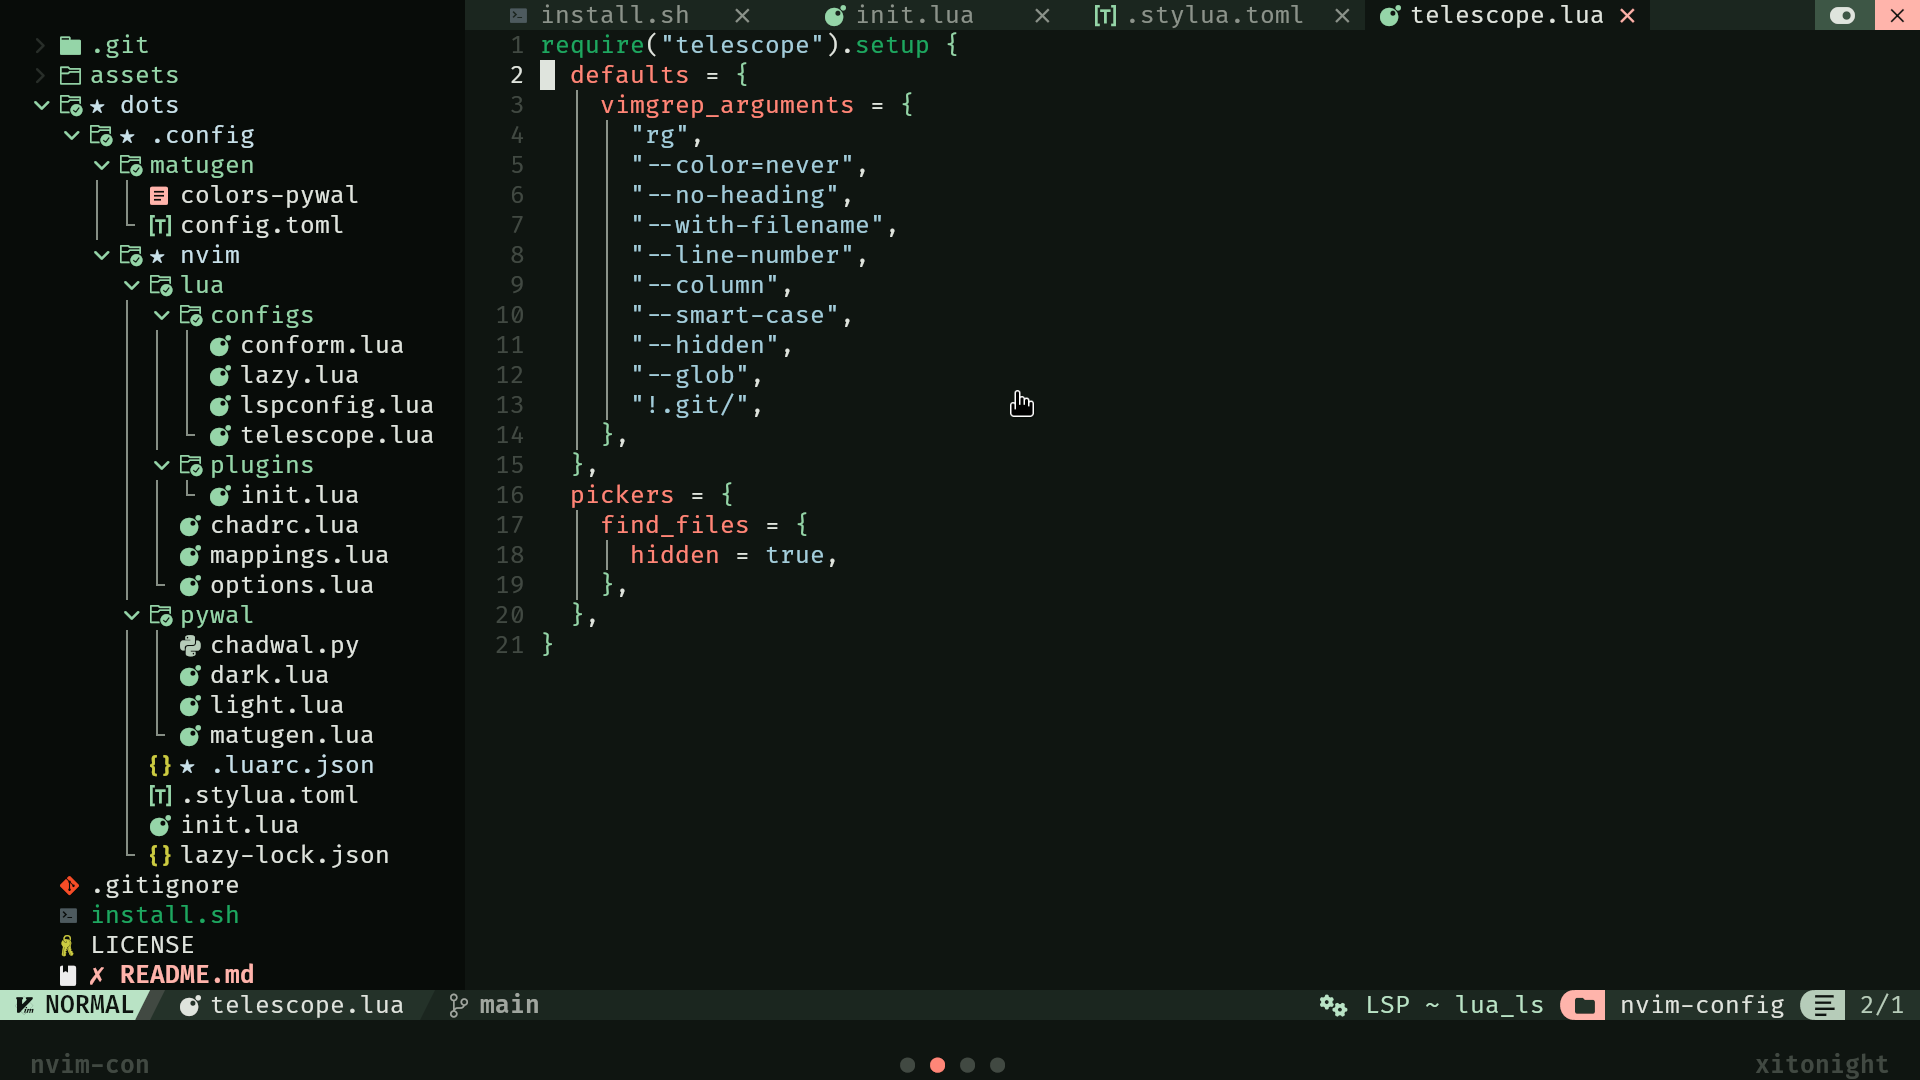
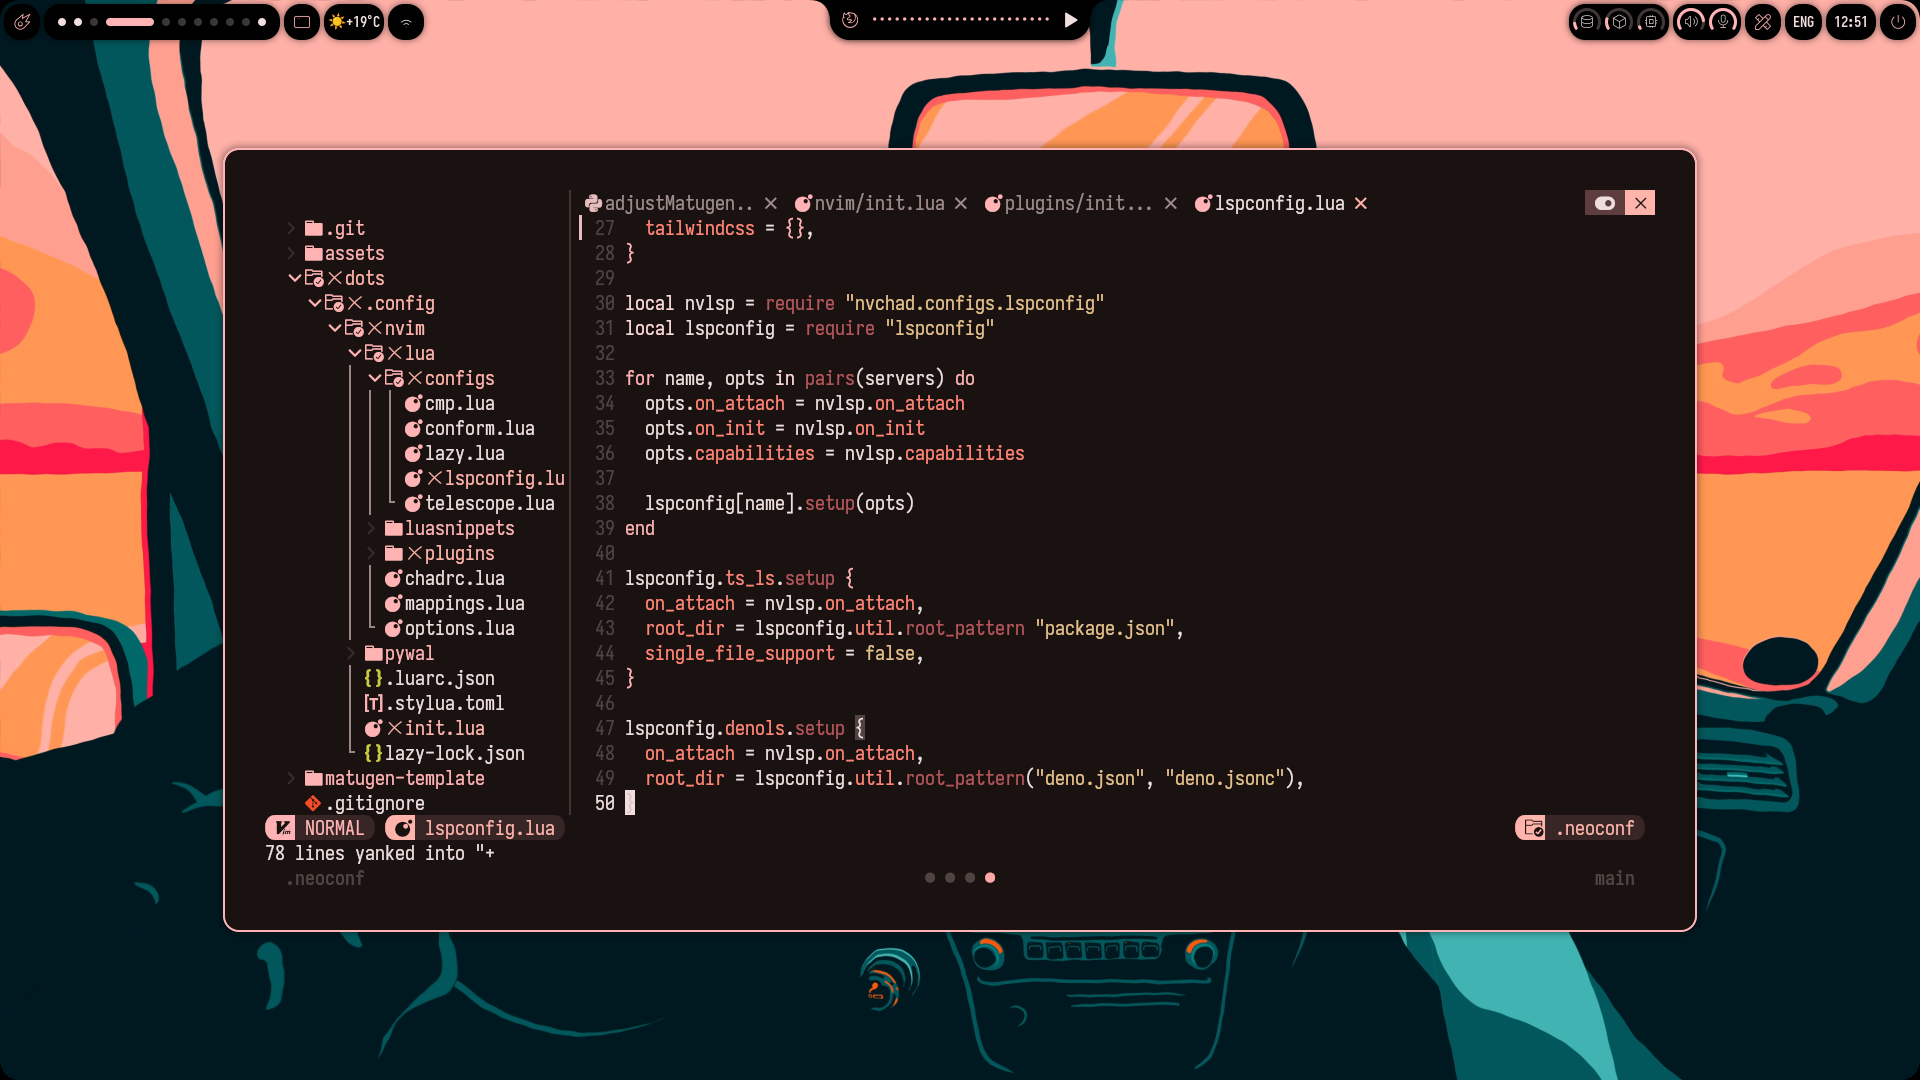
Various changes - Fix install script - Order formatters and LSPs alphabetically - Change showcase screenshots - Fix README.md

diff --git a/adjustMatugenToml.py b/adjustMatugenToml.py
@@ -1,36 +1,47 @@
 import toml
 from os.path import expanduser
 
+
 def ensure_toml_config(file_path):
     required_config = {
-        "config": {"reload_apps": True,
+        "config": {
+            "reload_apps": True,
             "wallpaper": {
                 "command": "swww",
                 "arguments": [
-                    "img", "-t", "outer", "--transition-duration", "1.5",
-                    "--transition-step", "255", "--transition-fps", "60", "-f", "Nearest"
+                    "img",
+                    "-t",
+                    "outer",
+                    "--transition-duration",
+                    "1.5",
+                    "--transition-step",
+                    "255",
+                    "--transition-fps",
+                    "60",
+                    "-f",
+                    "Nearest",
                 ],
-                "set": True
-            }
+                "set": True,
+            },
         },
         "templates": {
             "nvim": {
                 "input_path": "~/.config/nvim/pywal/matugen.lua",
-                "output_path": "~/.cache/wal/base46-dark.lua"
+                "output_path": "~/.cache/wal/base46-dark.lua",
             },
             "pywal": {
                 "input_path": "~/.config/matugen/templates/colors-pywal",
-                "output_path": "~/.cache/wal/colors"
-            }
-        }
+                "output_path": "~/.cache/wal/colors",
+            },
+        },
     }
-    
+
     try:
         with open(file_path, "r") as f:
             current_config = toml.load(f)
     except FileNotFoundError:
         current_config = {}
-    
+
     def merge_dicts(base, updates):
         for key, value in updates.items():
             if isinstance(value, dict):
@@ -38,13 +49,14 @@ def ensure_toml_config(file_path):
             else:
                 base.setdefault(key, value)
         return base
-    
+
     updated_config = merge_dicts(current_config, required_config)
-    
+
     with open(file_path, "w") as f:
         toml.dump(updated_config, f)
-    
+
     print(f"Updated configuration saved to {file_path}")
 
-# Usage
+
 ensure_toml_config(expanduser("~/.config/matugen/config.toml"))
+

diff --git a/README.md b/README.md
@@ -1,4 +1,4 @@
-# Neoconf
+<h1><img src="https://logosrated.net/wp-content/uploads/parser/Neovim-Logo-1.png" alt="Neovim logo" width="25" height="25"/> Neoconf</h1>
 
 This is nothing but a really simple Neovim setup based on [NvChad](https://nvchad.com/) and [NvChad's pywal](https://github.com/NvChad/pywal) by [Axenide](https://github.com/Axenide) with some tweaks.
 
@@ -6,33 +6,32 @@ This is nothing but a really simple Neovim setup based on [NvChad](https://nvcha
 
 <table align="center">
   <tr>
-    <td colspan="4"><img src="assets/1.png"></td>
+    <td colspan="3"><img src="assets/1.png"></td>
   </tr>
   <tr>
     <td colspan="1"><img src="assets/2.png"></td>
     <td colspan="1"><img src="assets/3.png"></td>
-    <td colspan="1" align="center"><img src="assets/4.png"></td>
-    <td colspan="1" align="center"><img src="assets/5.png"></td>
+    <td colspan="1"><img src="assets/4.png"></td>
   </tr>
 </table>
 
-## Installation
+<h2><img src="https://raw.githubusercontent.com/Tarikul-Islam-Anik/Animated-Fluent-Emojis/master/Emojis/Objects/Package.png" alt="Package" width="25" height="25" /> Installation</h2>
+
+> [!IMPORTANT]
+> **The script will open Neovim twice!** The first time will be just after installing NvChad, you'll have to close neovim after it finishes to let the script continue and open Neovim again!
 
 > [!WARNING]
-> For some reason it is pretty common to get an error due to base46 not cloning correctly all the resources needed. In case you get an error regarding some missing files from base64 just rerun the installation script / follow the guide again.
-
-> [!NOTE]
 > Both the scripts will use stow, so they won't copy the files to your ~/.config folder, they will only create symlinks to the files inside the cloned repo, so make sure not to delete it after the installation (unless you want to manually copy the files).
 
-> [!NOTE]
-> You can pass `-s -- <install_directory>` to the script to change the default install directory (`~/neoconf`)
+> [!TIP]
+> You can pass `/path/to/installation` to the script to change the default install directory (`~/neoconf`)
 
 <h3><img src="http://wiki.installgentoo.com/images/f/f9/Arch-linux-logo.png" width=22 height=22/> On Arch Linux</h3>
 
 On Arch Linux you'll only need to run the installation script, as it'll do everything for you. It'll backup the files automatically to `<path/to/the/file>.bkp` and it will automatically install all the required packages.
 
 ```bash
-curl -fsSL https://raw.githubusercontent.com/Xitonight/neoconf/main/install_arch.sh | bash
+curl -fsSLO https://raw.githubusercontent.com/Xitonight/neoconf/main/install_arch.sh && chmod +x ./install_arch.sh && ./install_arch.sh
 ```
 
 <h3><img src="http://wiki.installgentoo.com/images/5/5b/Ubuntu.png" width=22 height=22/> On other distros</h3>
@@ -51,14 +50,14 @@ All the packages should be available on your Linux package manager, so install t
 Once every package has been installed, run the script:
 
 ```bash
-curl -fsSL https://raw.githubusercontent.com/Xitonight/neoconf/main/install.sh | bash
+curl -fsSLO https://raw.githubusercontent.com/Xitonight/neoconf/main/install.sh && chmod +x ./install.sh && ./install.sh
 ```
 
-## Usage
+<h2><img src="https://raw.githubusercontent.com/Tarikul-Islam-Anik/Animated-Fluent-Emojis/master/Emojis/Symbols/Information.png" alt="Information" width="25" height="25" /> Usage</h2>
 
 Now that everything's installed, every time you run `matugen image <path_to_your_wallpaper>` you'll see that neovim will use a fresh new color scheme based on your wallpaper. 
 
-## Uninstalling
+<h2><img src="https://raw.githubusercontent.com/Tarikul-Islam-Anik/Animated-Fluent-Emojis/master/Emojis/Symbols/Cross%20Mark.png" alt="Cross Mark" width="25" height="25" /> Uninstalling</h2>
 
 Run these commands:
 
@@ -73,6 +72,6 @@ And uninstall the packages, that's it.
 
 If you need any help feel free to open an issue or to contact me directly :)
 
-## Credits
+<h2><img src="https://raw.githubusercontent.com/Tarikul-Islam-Anik/Animated-Fluent-Emojis/master/Emojis/Smilies/Red%20Heart.png" alt="Red Heart" width="25" height="25" /> Credits</h2>
 
 I want to thank [Axenide](https://github.com/Axenide) for this absurdly well done plugin and for all i've learnt from him.
